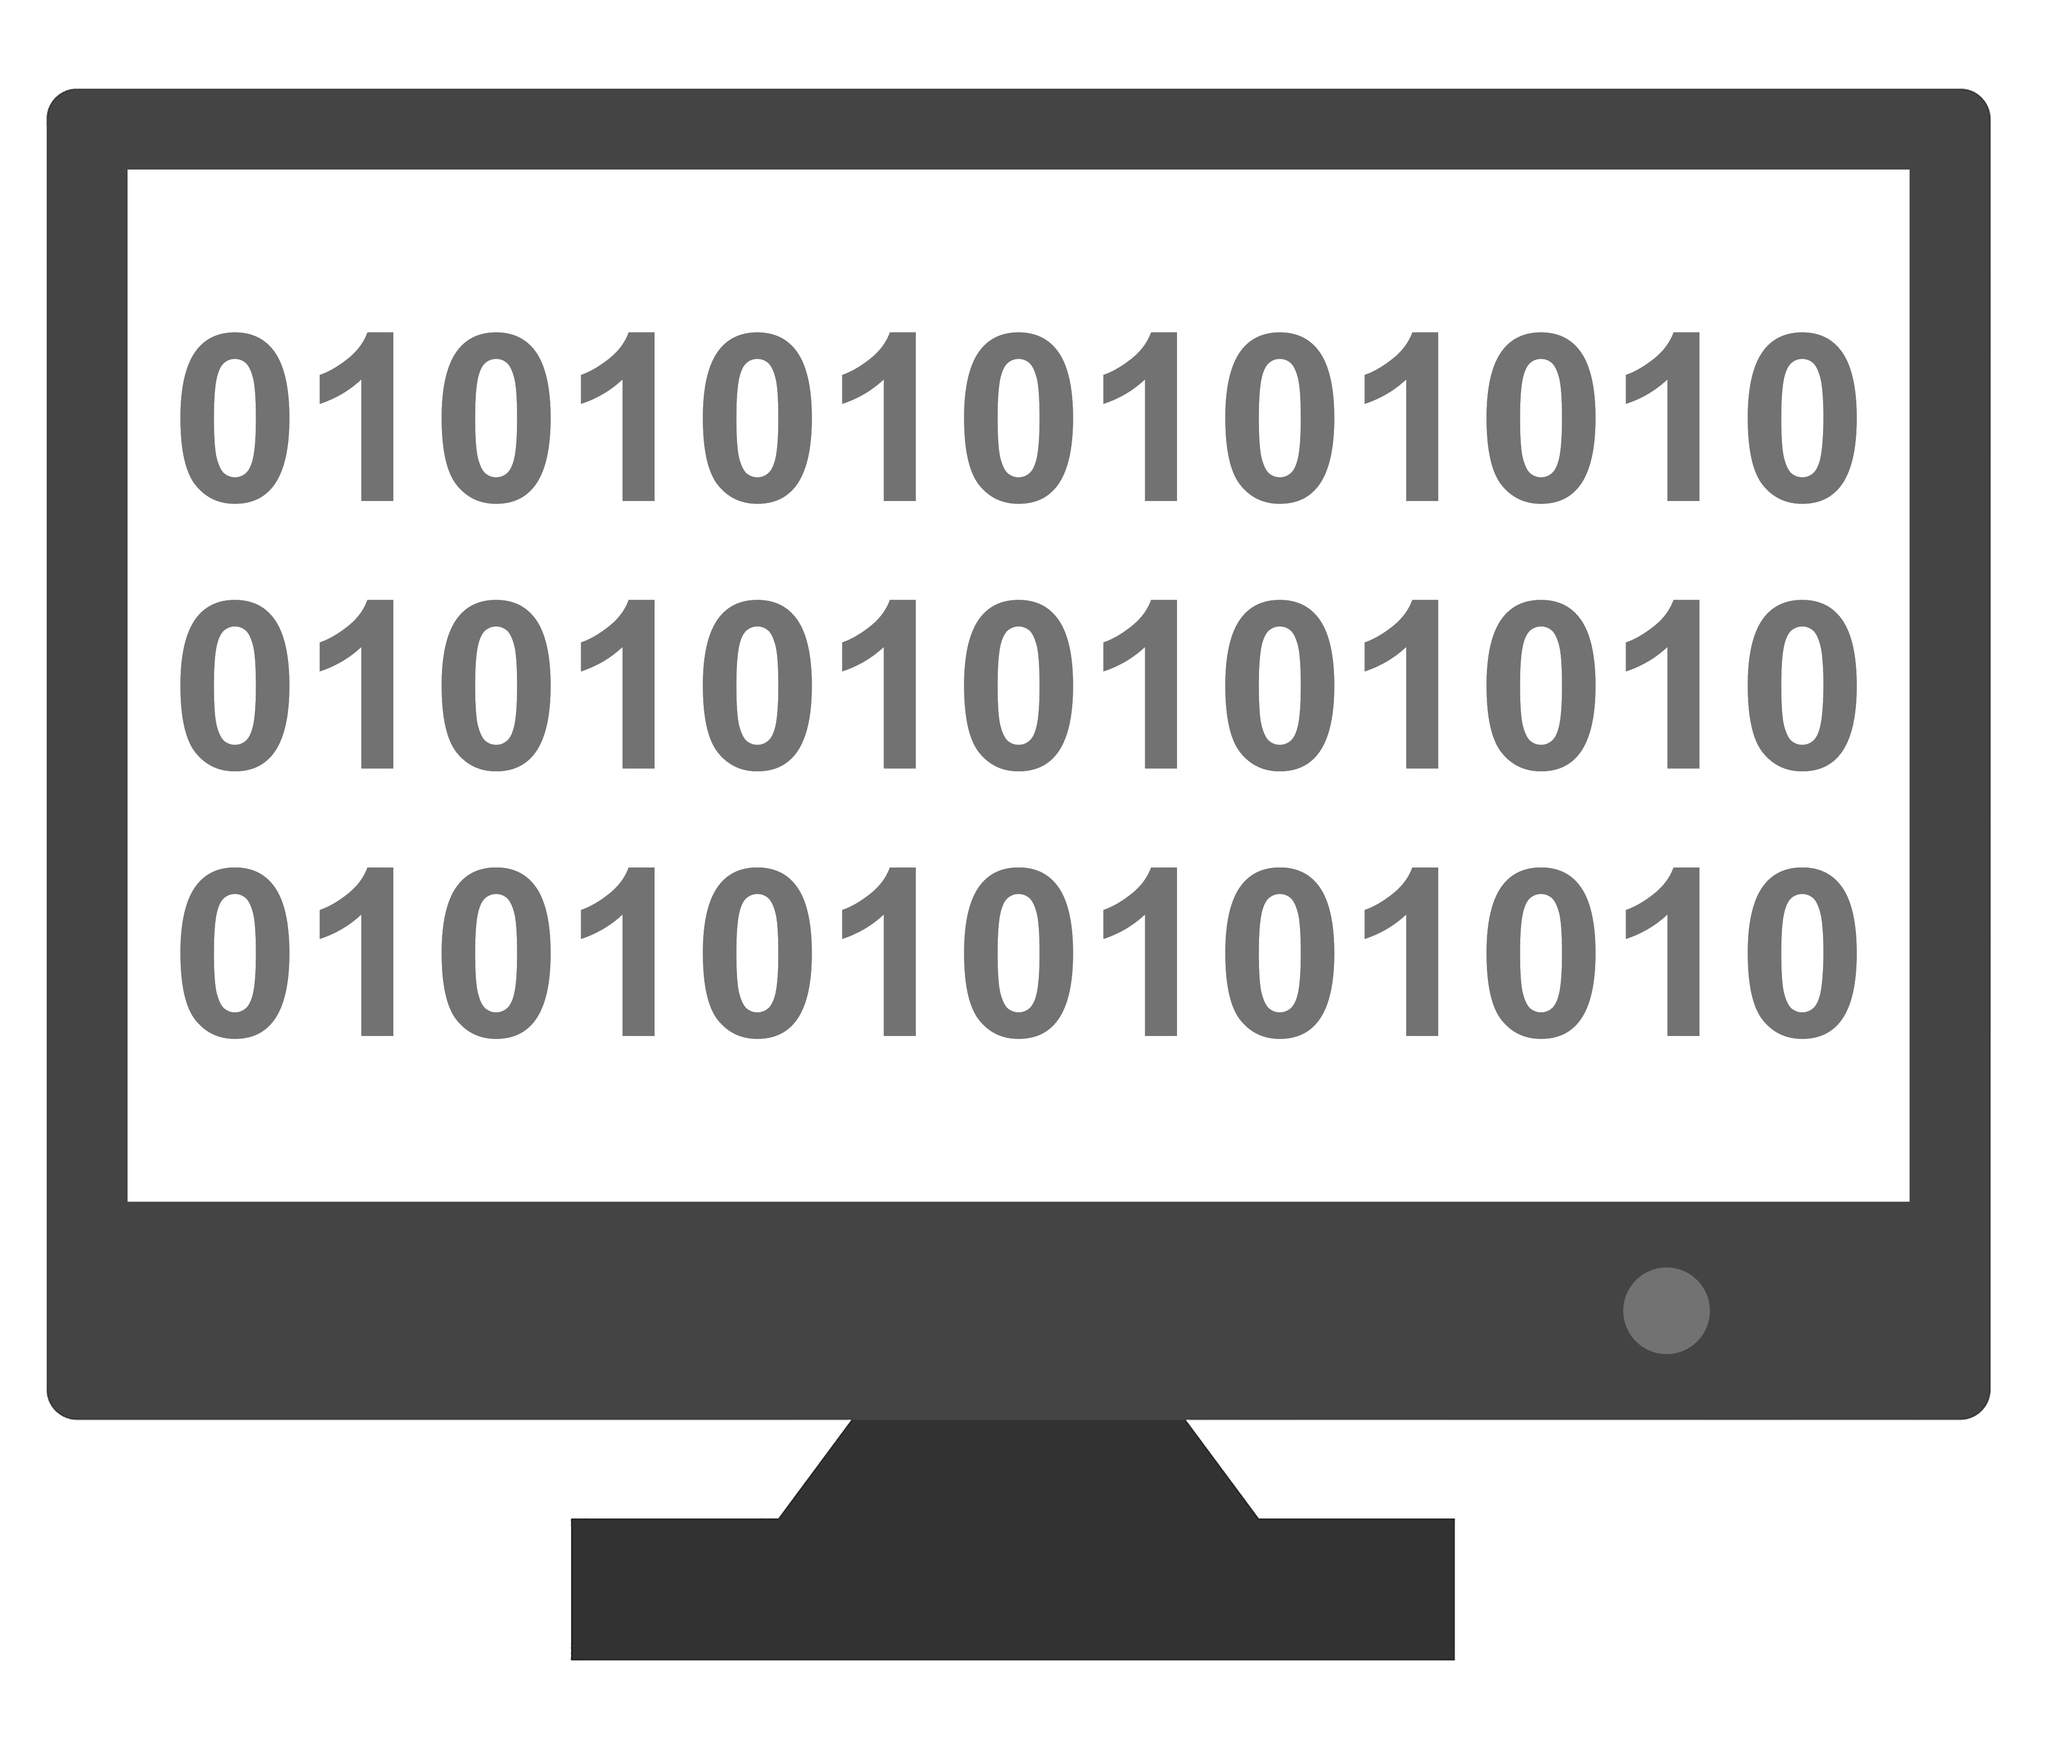
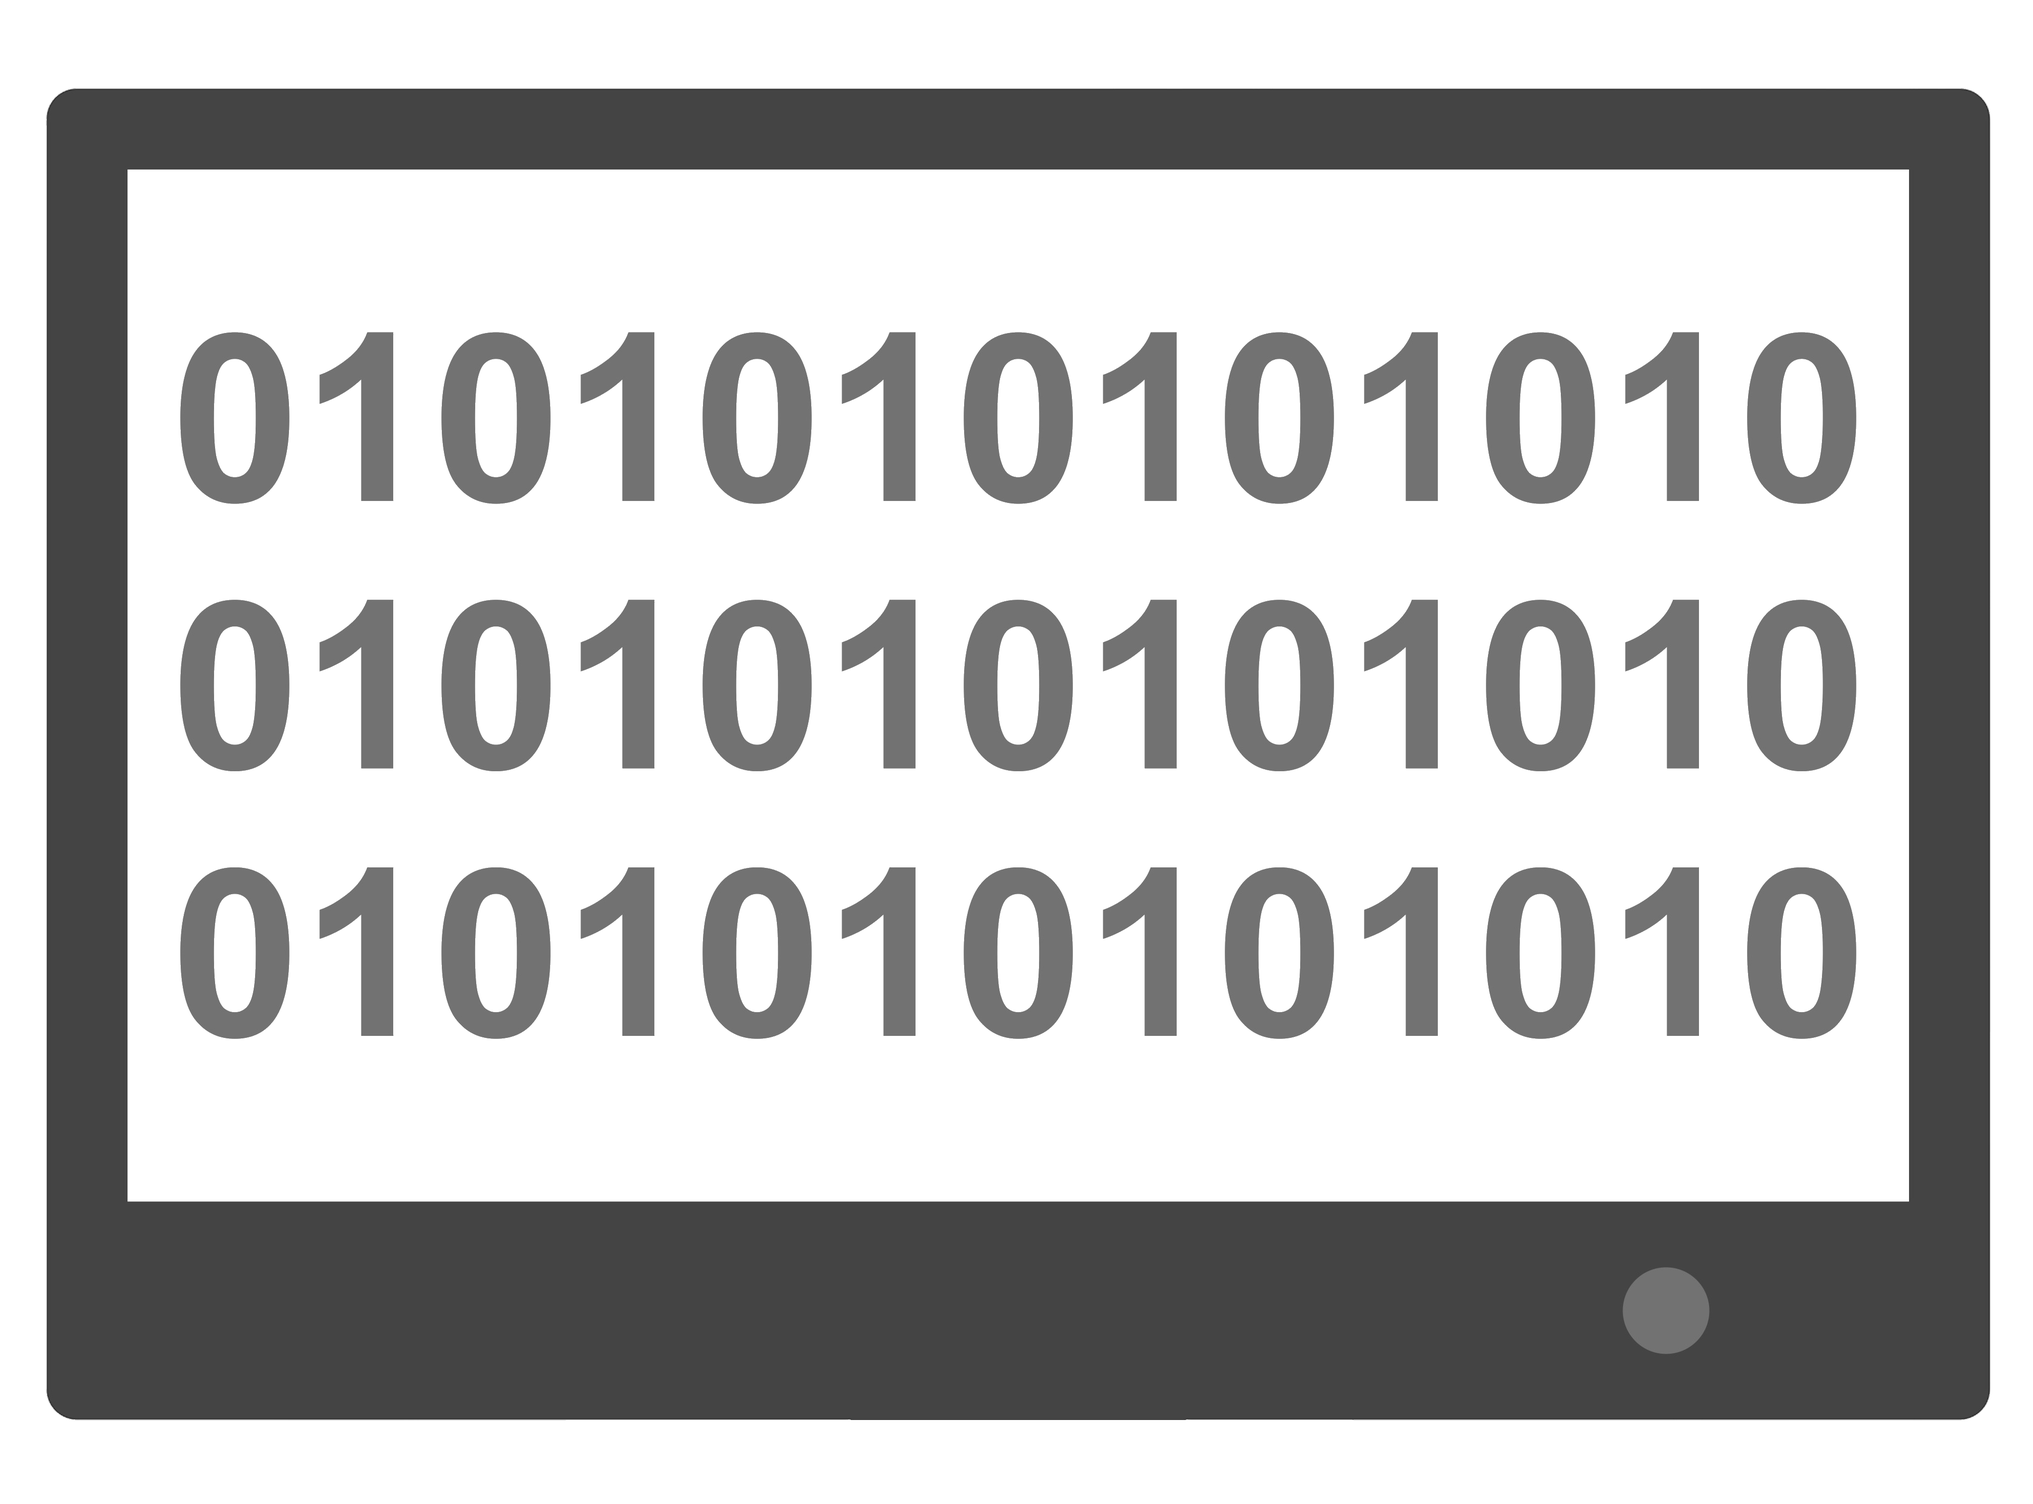
Pre-release 3 - Draft

diff --git a/website/src/components/other-projects/other-projects.js b/website/src/components/other-projects/other-projects.js
@@ -3,9 +3,9 @@ import Parser from 'html-react-parser';
 import "./other-projects.scss"
 
 const otherProjectsData = [{
-  "name": "Llama Style Transfer",
-  "url": "",
-  "description": "A personal research project exploring fine-tuning of a 1B-parameter Llama model to perform writing style transfer across both several text domains and varied learning mechanisms.",
+  "name": "Fine-tuning LLaMA for Style Transfer",
+  "url": "https://github.com/Ca1eb9/portfolio/tree/main/coming-soon",
+  "description": "A personal research project exploring fine-tuning of a 1B-parameter Llama model to perform textual style transfer using a limited dataset. Examined the effect supervised fine-tuning (SFT) and input/output variations have on model quality.",
   "used": [{
     "thing": "Python"
   }, {
@@ -20,18 +20,18 @@ const otherProjectsData = [{
 }, {
   "name": "Penley's Paintball Website",
   "url": "https://penleyspaintball.github.io",
-  "description": "A clean, intuitive site designed to showcase pricing, events, and gallery for my dad’s local paintball business. <br> <a class='small' href=''>Source Code</a>",
+  "description": "A simple yet clean and intuitive website designed to showcase pricing, events, and gallery for my dad’s local paintball business.<br> <a class='small' target='_blank' rel='noreferrer' href='https://github.com/penleyspaintball/penleyspaintball.github.io'>Source Code</a>",
   "used": [{
-    "thing": "HTML5"
+    "thing": "HTML"
   }, {
     "thing": "JavaScript"
   }, {
     "thing": "MetaAPI"
   }]
 }, {
-  "name": "mdadm JBOD System",
-  "url": "",
-  "description": "Built a fail-safe storage management tool in C that simulates Linux’s mdadm, culminating in the implementation of a client-server protocol to execute JBOD operations over a networked environment.",
+  "name": "Custom mdadm RAID Utility",
+  "url": "https://github.com/Ca1eb9/portfolio/tree/main/coming-soon",
+  "description": "A mdadm-like tool in C for RAID managment, focusing on fail-safe Just a Bunch of Disks (JBOD) operations through rigorous testing. Implemented a caching system to optimize I/O and socket-based communication for scalability and improved performance in a networked environment.",
   "used": [{
     "thing": "C"
   }, {
@@ -45,8 +45,8 @@ const otherProjectsData = [{
   }]
 }, {
   "name": "Course Scheduler",
-  "url": "",
-  "description": "Designed a Java-based academic scheduling system using SQL, supporting dynamic student course enrollment and admin-level schedule control.",
+  "url": "https://github.com/Ca1eb9/portfolio/tree/main/coming-soon",
+  "description": "A Java-based academic scheduling system using SQL, supporting dynamic student course enrollment and admin-level schedule control.",
   "used": [{
     "thing": "Java"
   }, {
@@ -57,24 +57,24 @@ const otherProjectsData = [{
     "thing": "JDBC"
   }]
 }, {
-  "name": "Showtime Display",
+  "name": "Cinema Showtimes Display",
   "url": "https://silverstarcinemas.com",
-  "description": "Developed a clean, intuitive web app for daily and weekly movie listings, backed by Firebase and Google Cloud functions for reliable schedule syncing. <br> <a class='small' href='https://github.com/Ca1eb9/CalebPenley-Portfolio/tree/main/Web%20Dev%20for%20Movie%20Theater'>Source Code </a>",
+  "description": "A dynamic movie listings web app using TMDB API for movie data, backed by Firebase and Google Cloud Platform (GCP) functions for reliable showtime access. <br> <a class='small' href='https://github.com/Ca1eb9/CalebPenley-Portfolio/tree/main/Web%20Dev%20for%20Movie%20Theater'>Source Code </a>",
   "used": [{
-    "thing": "HTML5"
+    "thing": "HTML"
   }, {
     "thing": "JavaScript"
   }, {
     "thing": "Firebase"
   }, {
-    "thing": "Google Cloud"
+    "thing": "GCP"
   }, {
     "thing": "TMDB API"
   }]
 }, {
   "name": "TinyLlama Reasoning",
-  "url": "",
-  "description": "Explored the capacity of a lightweight LLM (TinyLlama) to perform structured textual reasoning through simple deductive prediction.",
+  "url": "https://github.com/Ca1eb9/portfolio/tree/main/coming-soon",
+  "description": "A personal project exploring the capacity of a lightweight LLM like TinyLlama to perform structured textual reasoning through deductive prediction.",
   "used": [{
     "thing": "Python"
   }, {
@@ -89,21 +89,19 @@ const otherProjectsData = [{
     "thing": "PEFT/LoRA"
   }]
 }, {
-  "name": "VAE from Scratch",
-  "url": "",
-  "description": "Designed and implemented a modular Variational Autoencoder in PyTorch from scratch to explore generative modeling and latent space structure.",
+  "name": "Variational Autoencoder (VAE) from Scratch",
+  "url": "https://github.com/Ca1eb9/portfolio/tree/main/coming-soon",
+  "description": "A deep convolutional VAE in PyTorch from scratch to efficently learn compressed representations from images. Trained on the MNIST dataset achieving a low reconstruction loss (<0.01 MSE) for generative sampling.",
   "used": [{
     "thing": "Python"
   }, {
     "thing": "Pytorch"
   }, {
     "thing": "HuggingFace"
-  }, {
-    "thing": "NumPy"
   }]
 }, {
   "name": "Diffusion LoRA Training",
-  "url": "",
+  "url": "https://github.com/Ca1eb9/portfolio/tree/main/coming-soon",
   "description": "Implemented and trained Low-Rank Adaptation modules on a Flux.1 Dev to experiment with efficient model fine-tuning and performance improvements on domain-specific input.",
   "used": [{
     "thing": "Python"
@@ -112,9 +110,9 @@ const otherProjectsData = [{
   }, {
     "thing": "Diffusers"
   }, {
-    "thing": "Flux.1 Dev"
-  }, {
     "thing": "LoRA"
+  }, {
+   "thing": "Flux.1 Dev"
   }]
 }];
 

diff --git a/website/src/components/featured-projects/featured-projects.js b/website/src/components/featured-projects/featured-projects.js
@@ -13,16 +13,16 @@ const FeaturedProjects = () => (
         </figure>
         <figcaption className="project__caption">
           <div className="project__name">
-            <a href="" rel="noreferrer" target="_blank">Theater Dashboard</a>
+            <a href="" rel="noreferrer" target="_blank">Cinema Dashboard</a>
           </div>
-          <p>A full-stack projector management dashboard web-app with UUID-secured authentication and automated email alerts for critical errors.</p>
+          <p>A full-stack asynchronous dashboard with a TCP-backend for live projector status and management. Secured by UUID-based authentication and automated email alerts for critical errors or projector failures.</p>
           <div className="project__used">
             <span className="project__used__item">Rust</span>
             <span className="project__used__item">Warp</span>
             <span className="project__used__item">Tokio</span>
-            <span className="project__used__item">HTML5</span>
+            <span className="project__used__item">HTML</span>
             <span className="project__used__item">JavaScript</span>
-            <span className="project__used__item">Networking</span>
+            <span className="project__used__item">TCP</span>
             <span className="project__used__item">Security</span>
          </div>
         </figcaption>
@@ -43,7 +43,7 @@ const FeaturedProjects = () => (
           <div className="project__name">
             <a href="https://github.com/Ca1eb9/Maya" rel="noreferrer" target="_blank">Maya - An AI Assistant</a>
           </div>
-          <p>Maya is my first attempt to develop an original client-server based AI assistant similar to Amazon Alexa or Google Home. It features Azure speech synthesis and custom intent recognition.</p>
+          <p>Orignal AI assistant with a Flask REST API for CI/CD, media playback, and real-time weather updates. Scaled to support a server-client design using multi-threaded sockets, leveraging Microsoft Azure for speech recognition and synthesis</p>
           <div className="project__used">
             <span className="project__used__item">Python</span>
             <span className="project__used__item">Azure</span>
@@ -52,6 +52,7 @@ const FeaturedProjects = () => (
             <span className="project__used__item">Tkinter</span>
             <span className="project__used__item">REST API</span>
             <span className="project__used__item">CI/CD</span>
+            <span className="project__used__item">TCP</span>
          </div>
         </figcaption>
       </div>

diff --git a/website/src/components/background/background.js b/website/src/components/background/background.js
@@ -4,8 +4,8 @@ import * as React from "react"
 const backgroundData = {
   title: "Background",
   line1: "Currently attending The Pennsylvania State University pursuing a degree in computer science, I have a keen interest in the intersection between machine learning and neuroscience. I'm currently focused on experimenting with system and architectural design that more-closely mimic the efficient adaptability seen in biological neural networks.",
-  line2: "Growing up in a small rural town in northwestern PA, I was surprisingly drawn to the complexity of computation, eventually teaching myself everything from basic mechanic and electronics to programming through raw reverse-engineering.",
-  line3: "While expanding my knowledge and experimenting with digital systems design, I also enjoy learning about topics in practically any other field of study. When I’m not immersed in theory or coding a custom tool, I love reflecting on big questions, going on hikes, and socializing with friends and family."
+  line2: "Growing up in a small rural town in northwestern PA, I was surprisingly drawn to the complexity of computation, eventually reverse-engineering everything from engines to computer motherboards.",
+  line3: "While expanding my knowledge through experimentation, I have discovered I am fascinated by a variety of disclpines. When I’m not immersed in theory or coding a custom tool, I enjoy reflecting on life's big questions, going on hikes, and socializing with friends and family."
 };
 const Background = () => (
   <section className="section background">

diff --git a/website/src/components/footer/footer.js b/website/src/components/footer/footer.js
@@ -5,11 +5,12 @@ const socialData = [{
   "title": "email",
   "url": "mailto:penleyc@icloud.com"
 }, {
-  "title": "github",
-  "url": "https://github.com/ca1eb9"
-}, {
   "title": "linkedin",
   "url": "https://www.linkedin.com/in/calebpenley/"
+}, {
+  "title": "github",
+  "url": "https://github.com/ca1eb9"
+
 }];
 const Footer = () => (
   <footer className="footer">
@@ -17,7 +18,7 @@ const Footer = () => (
       <div className="footer1__links">
         {
           socialData.map((social) => (
-            <a href={social.url} target="_blank" rel="noreferrer" title="{{link.title}}">
+            <a href={social.url} target="_blank" rel="noreferrer" title={social.title}>
               <span className="text">{social.title}</span>
             </a>
           ))

diff --git a/website/src/components/intro/intro.js b/website/src/components/intro/intro.js
@@ -43,6 +43,20 @@ const Intro = () => {
       <a href={introData.mailTo}
          className="highlight-link">{introData.email}</a>
     </span>
+    <br/>
+    <div className="icon-boxs">
+      <div className="icon-box">
+      <a href="https://linkedin.com/in/calebpenley" target="_blank" rel="noreferrer" className="intro__icon">
+      <i class="bi bi-linkedin"></i>
+    </a>
+    </div>
+    <div className="icon-box">
+      <a href="https://github.com/ca1eb9" target="_blank" rel="noreferrer" className="intro__icon">
+      <i class="bi bi-github"></i>
+    </a>
+    </div>
+    </div>
+    
     </h3>
     <img src="./images/ai.png" className="intro__img"></img>
   </header>

diff --git a/website/src/components/seo.js b/website/src/components/seo.js
@@ -13,6 +13,11 @@ const Seo = () => (
     <title>{seoData.title}</title>
      <Helmet>
     <link rel="icon" href="/favicon/favicon.ico" type="image/x-icon" />
+    {/* Bootstrap Icons CDN */}
+    <link
+      rel="stylesheet"
+      href="https://cdn.jsdelivr.net/npm/bootstrap-icons@1.11.3/font/bootstrap-icons.css"
+    />
      </Helmet>
     <meta name="description" content={seoData.description} />
     <meta property="og:title" content={seoData.title} />

diff --git a/website/src/components/intro/intro.scss b/website/src/components/intro/intro.scss
@@ -138,8 +138,21 @@
       bottom:1px;
       transition: transform 0.3s ease-out, opacity 0.3s ease-out;
       width: 600px;
-      z-index: 0; /* Lower layer */
-      opacity: 0.2; /* Optional: make it semi-transparent */
+      z-index: 0;
+      opacity: 0.2;
+      pointer-events: none;
+    }
+    &__icon {
+      font-size: 2rem;
+      
     }
   }
+
+.icon-box {
+  padding-right: 20px;
+}
+.icon-boxs {
+  display: flex;
+}
+
   

diff --git a/website/src/components/scroll.js b/website/src/components/scroll.js
@@ -46,7 +46,7 @@ const Scroll = () => {
   return (
     <>
       <button id="top-button" ref={topButtonRef} onClick={handleClick} style={{ display: showTopButton ? 'block' : 'none' }}>
-        <img src="./images/up_arrow.png" alt=""/>
+        <img src="./images/arrow_up.png" alt=""/>
       </button>
     </>
   );

diff --git a/website/src/components/experience/experience.js b/website/src/components/experience/experience.js
@@ -8,11 +8,6 @@ const experienceData = [{
   "time": "May 2024 - Present",
   "position": "Silver Star Cinemas"
 }, {
-  "company": "Independent Researcher",
-  "url": "",
-  "time": "Ongoing",
-  "position": "Personal Project"
-}, {
   "company": "Vice President",
   "url": "",
   "time": "Dec 2024 - Sep 2025",

diff --git a/website/src/components/skills/skills.js b/website/src/components/skills/skills.js
@@ -36,7 +36,7 @@ const Skills = () => (
       </div>
     </div>
     <div className="img_wrapper">
-      <img src="./images/binary.png" className="img"></img>
+      <img src="./images/binary2.png" className="img"></img>
     </div>
   </section>
   

diff --git a/website/src/scss/base.scss b/website/src/scss/base.scss
@@ -222,9 +222,9 @@ strong {
   background: transparent;
   border: none;
   outline: none;
-  width: 40px;
+  width: 80px;
   position: fixed;
-  bottom: 25px;
+  bottom: 20px;
   right: 10px;
   cursor: pointer;
   display: none;

diff --git a/website/src/components/skills/skills.scss b/website/src/components/skills/skills.scss
@@ -37,5 +37,5 @@
       top: -150px;
       width: 600px;
       z-index: 0;
-      opacity: 0.2; 
+      opacity: 0.1; 
     }
